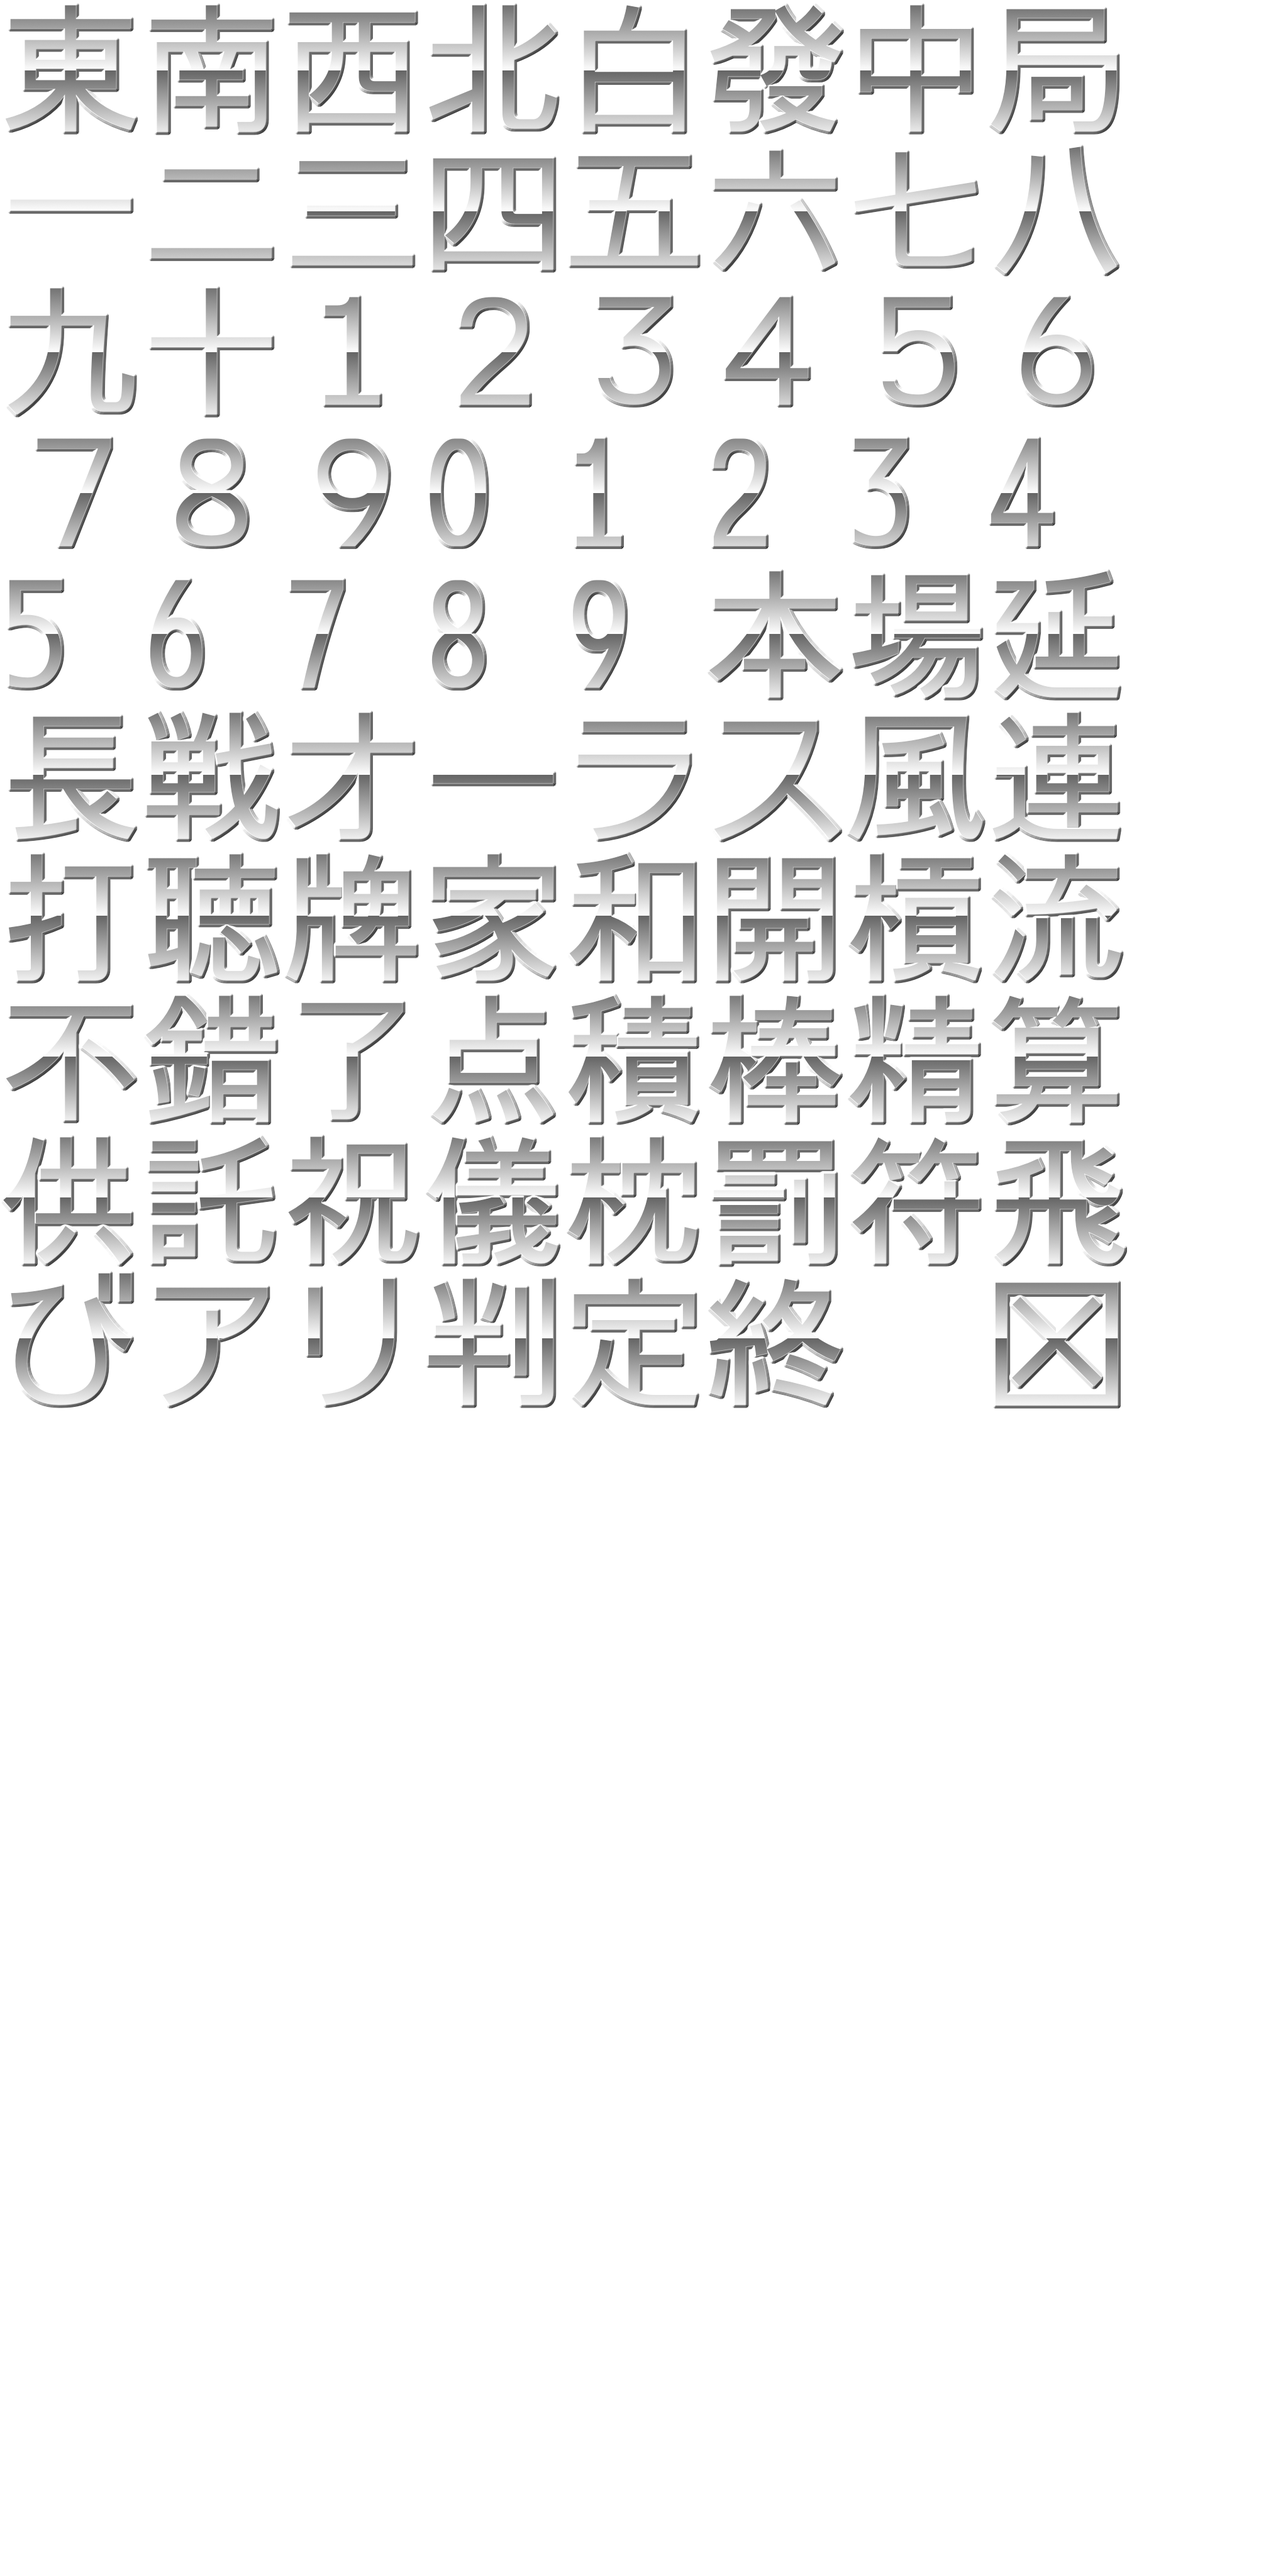
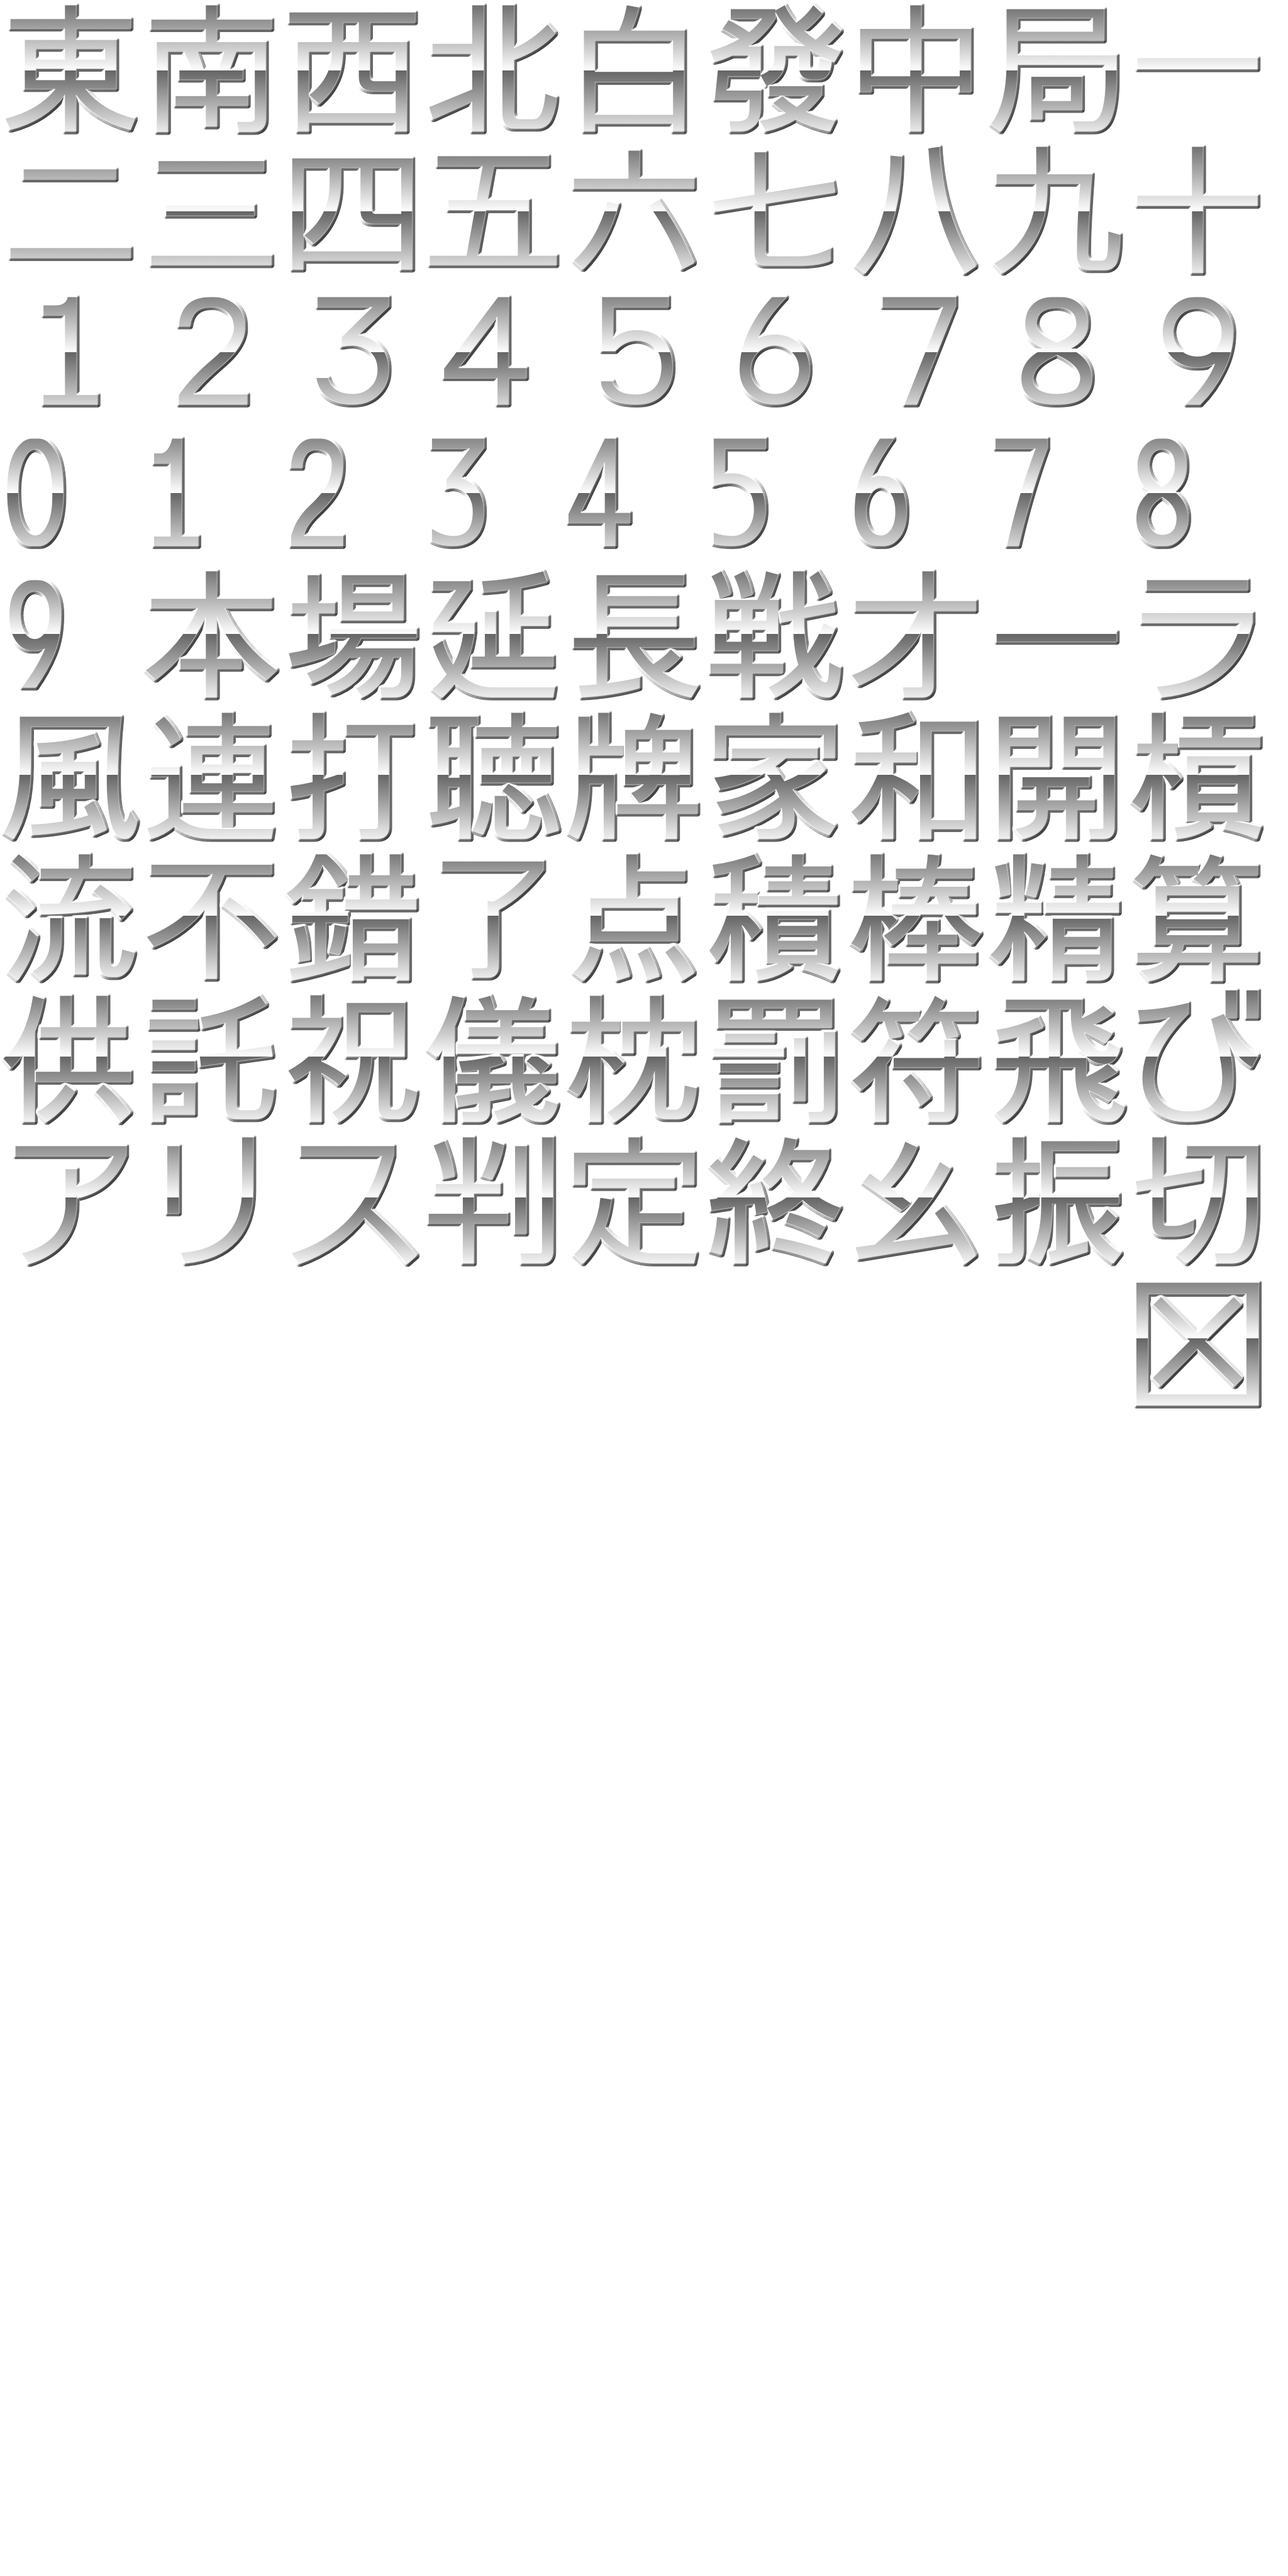
流し満貫の時の挙動が一部おかしいのを修正
BGMの間違い（他家・自家が逆）
文字化け（「流し満貫」の大書き用フォントがなかった）

Changed region(s): [[0.0, 0.0625, 1.0, 0.5625]]

diff --git a/graphic/text.h b/graphic/text.h
@@ -61,7 +61,7 @@ class HugeTextRenderer : public ITextRenderer {
 private:
 	const unsigned int FontBaseSize() {return 224;}
 	const unsigned int FontWidth() {return FontBaseSize();}
-	const unsigned int FontCols() {return 8;}
+	const unsigned int FontCols() {return 9;}
 	const unsigned int FontPadding() {return 0;}
 public:
 	explicit HugeTextRenderer(DevicePtr device);

diff --git a/graphic/font.h b/graphic/font.h
@@ -36,7 +36,7 @@ private:
 	FontMapLargeChr();
 	FontMapLargeChr(const FontMapLargeChr&) {}
 	virtual ~FontMapLargeChr() {}
-	const unsigned short Default_Chr() {return 79;}
+	const unsigned short Default_Chr() {return 89;}
 public:
 	static FontMapLargeChr* instantiate();
 };
